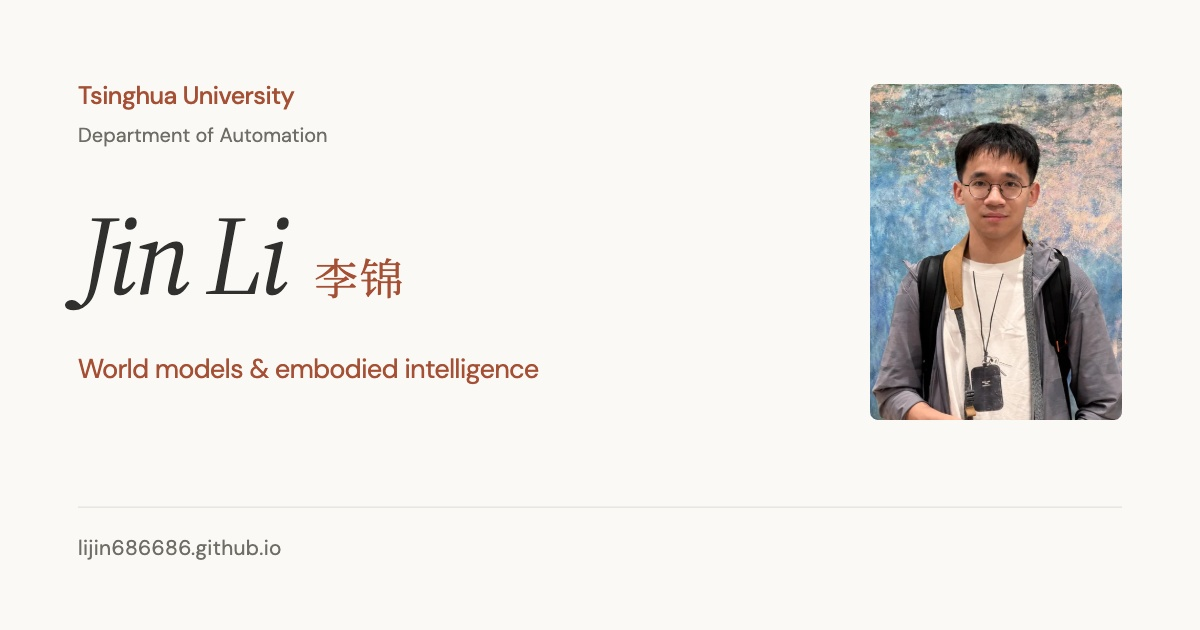
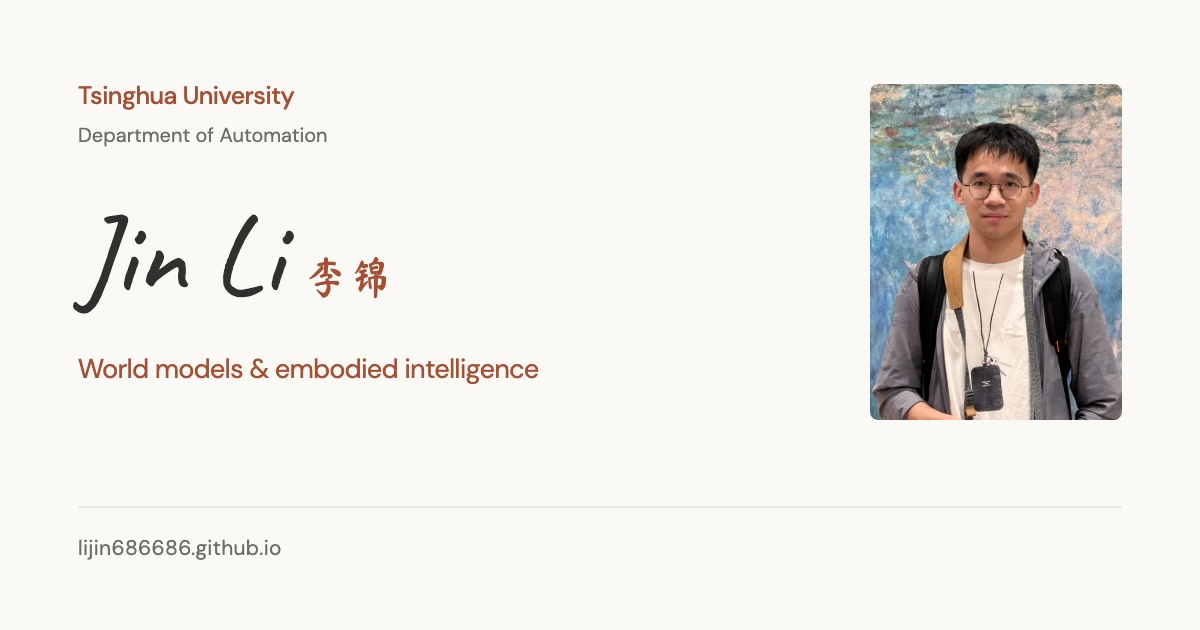
Use selected handwritten hero name and restore plain sidebar

Changed region(s): [[0.0617, 0.3317, 0.3392, 0.5127]]

diff --git a/assets/site.css b/assets/site.css
@@ -234,8 +234,8 @@ html[lang^='zh'] .profile-nav a{font-size:14px}
 /* ---------- sidebar lettering and refined spacing ---------- */
 .hero-role{font-size:14.5px;color:var(--text);margin-top:6px}
 .hero-portrait{margin-top:38px}
-.site-name{font-family:'Jin Li Hand',var(--serif);font-weight:450;font-size:31px;line-height:1.2;letter-spacing:0;word-spacing:-.06em}
-.site-name span{font-family:'Li Jin Hand',var(--zh-serif);font-size:18px;letter-spacing:.04em;color:var(--accent)}
+.site-name{font:400 25px/1.3 var(--sans);letter-spacing:-.02em;word-spacing:normal}
+.site-name span{font:400 14px/1.5 var(--zh-sans);letter-spacing:.04em;color:var(--muted)}
 .contact{gap:8px 26px;margin-top:24px}
 .contact a{padding:4px 0;border:0;border-radius:0;font-size:14px;color:var(--text);text-decoration:underline;text-decoration-color:transparent;text-underline-offset:5px;transition:color .15s,text-decoration-color .15s}
 .contact a:hover{color:var(--accent);text-decoration-color:var(--accent)}
@@ -329,19 +329,19 @@ html[lang^='zh'] .section-heading{font-weight:400;letter-spacing:.06em;font-size
   .footer{display:none}
 }
 
-/* Selected name layout: simple italic English with upright Chinese at right. */
+/* Selected C: Caveat hero English + Ma Shan Zheng Chinese; body fonts in sidebar. */
 @font-face{font-family:'Jin Li Simple Italic';font-style:italic;font-weight:400;font-display:swap;src:url('fonts/jin-li-display-italic.woff2') format('woff2')}
-@font-face{font-family:'Li Jin Name Serif';font-style:normal;font-weight:400 500;font-display:swap;src:url('fonts/noto-serif-sc-name.woff2') format('woff2')}
+@font-face{font-family:'Li Jin Kai';font-style:normal;font-weight:400;font-display:swap;src:url('fonts/mashanzheng-lijin.woff2') format('woff2')}
 .hero-name{display:flex;flex-direction:row;flex-wrap:nowrap;align-items:baseline;gap:20px;margin-top:18px}
-.hero-name-en{font:italic 400 60px/1.16 'Jin Li Simple Italic',var(--serif);letter-spacing:-.025em;word-spacing:0;animation:none;transform:none}
-.hero-name-zh{font:400 22px/1.5 'Li Jin Name Serif',var(--zh-serif);letter-spacing:.08em;color:var(--accent);animation:none;transform:none}
+.hero-name-en{font:450 76px/1.12 'Jin Li Hand',var(--serif);letter-spacing:0;word-spacing:-.06em;animation:none;transform:none}
+.hero-name-zh{font:400 28px/1.5 'Li Jin Kai',var(--zh-serif);letter-spacing:.06em;color:var(--accent);animation:none;transform:none}
 @media(max-width:760px){
  .hero-name{margin-top:14px;gap:14px}
- .hero-name-en{font-size:48px}
- .hero-name-zh{font-size:20px}
+ .hero-name-en{font-size:54px}
+ .hero-name-zh{font-size:22px}
 }
 @media(max-width:380px){
  .hero-name{gap:10px}
- .hero-name-en{font-size:40px}
- .hero-name-zh{font-size:17px}
+ .hero-name-en{font-size:42px}
+ .hero-name-zh{font-size:19px}
 }

diff --git a/index.html b/index.html
@@ -19,7 +19,7 @@
 <meta property="og:title" content="Jin Li · 李锦">
 <meta property="og:description" content="Undergraduate at Tsinghua University · World models & embodied intelligence · AmbiguousWorld (NeurIPS 2026)">
 <meta property="og:url" content="https://lijin686686.github.io/">
-<meta property="og:image" content="https://lijin686686.github.io/assets/og-card.jpg?v=20260928-simple-italic-name">
+<meta property="og:image" content="https://lijin686686.github.io/assets/og-card.jpg?v=20260928-name-c">
 <meta property="og:image:width" content="1200">
 <meta property="og:image:height" content="630">
 <meta property="og:image:alt" content="Jin Li · 李锦 — Tsinghua University, world models and embodied intelligence">
@@ -30,7 +30,7 @@
 <meta name="twitter:card" content="summary_large_image">
 <meta name="twitter:title" content="Jin Li · 李锦">
 <meta name="twitter:description" content="Undergraduate at Tsinghua University · World models & embodied intelligence">
-<meta name="twitter:image" content="https://lijin686686.github.io/assets/og-card.jpg?v=20260928-simple-italic-name">
+<meta name="twitter:image" content="https://lijin686686.github.io/assets/og-card.jpg?v=20260928-name-c">
 <script type="application/ld+json">
 {
   "@context": "https://schema.org",
@@ -54,8 +54,8 @@
 <link rel="preload" href="assets/fonts/source-serif-4-latin.woff2" as="font" type="font/woff2" crossorigin>
 <link rel="preload" href="assets/fonts/dm-sans-latin.woff2" as="font" type="font/woff2" crossorigin>
 <link rel="preload" href="assets/fonts/caveat-jinli.woff2" as="font" type="font/woff2" crossorigin>
-<link rel="preload" href="assets/fonts/longcang-lijin.woff2" as="font" type="font/woff2" crossorigin>
-<link rel="stylesheet" href="assets/site.css?v=20260928-simple-italic-name">
+<link rel="preload" href="assets/fonts/mashanzheng-lijin.woff2" as="font" type="font/woff2" crossorigin>
+<link rel="stylesheet" href="assets/site.css?v=20260928-name-c">
 <script src="assets/site.js?v=20260928-cumulative-grades" defer></script>
 </head>
 <body>
